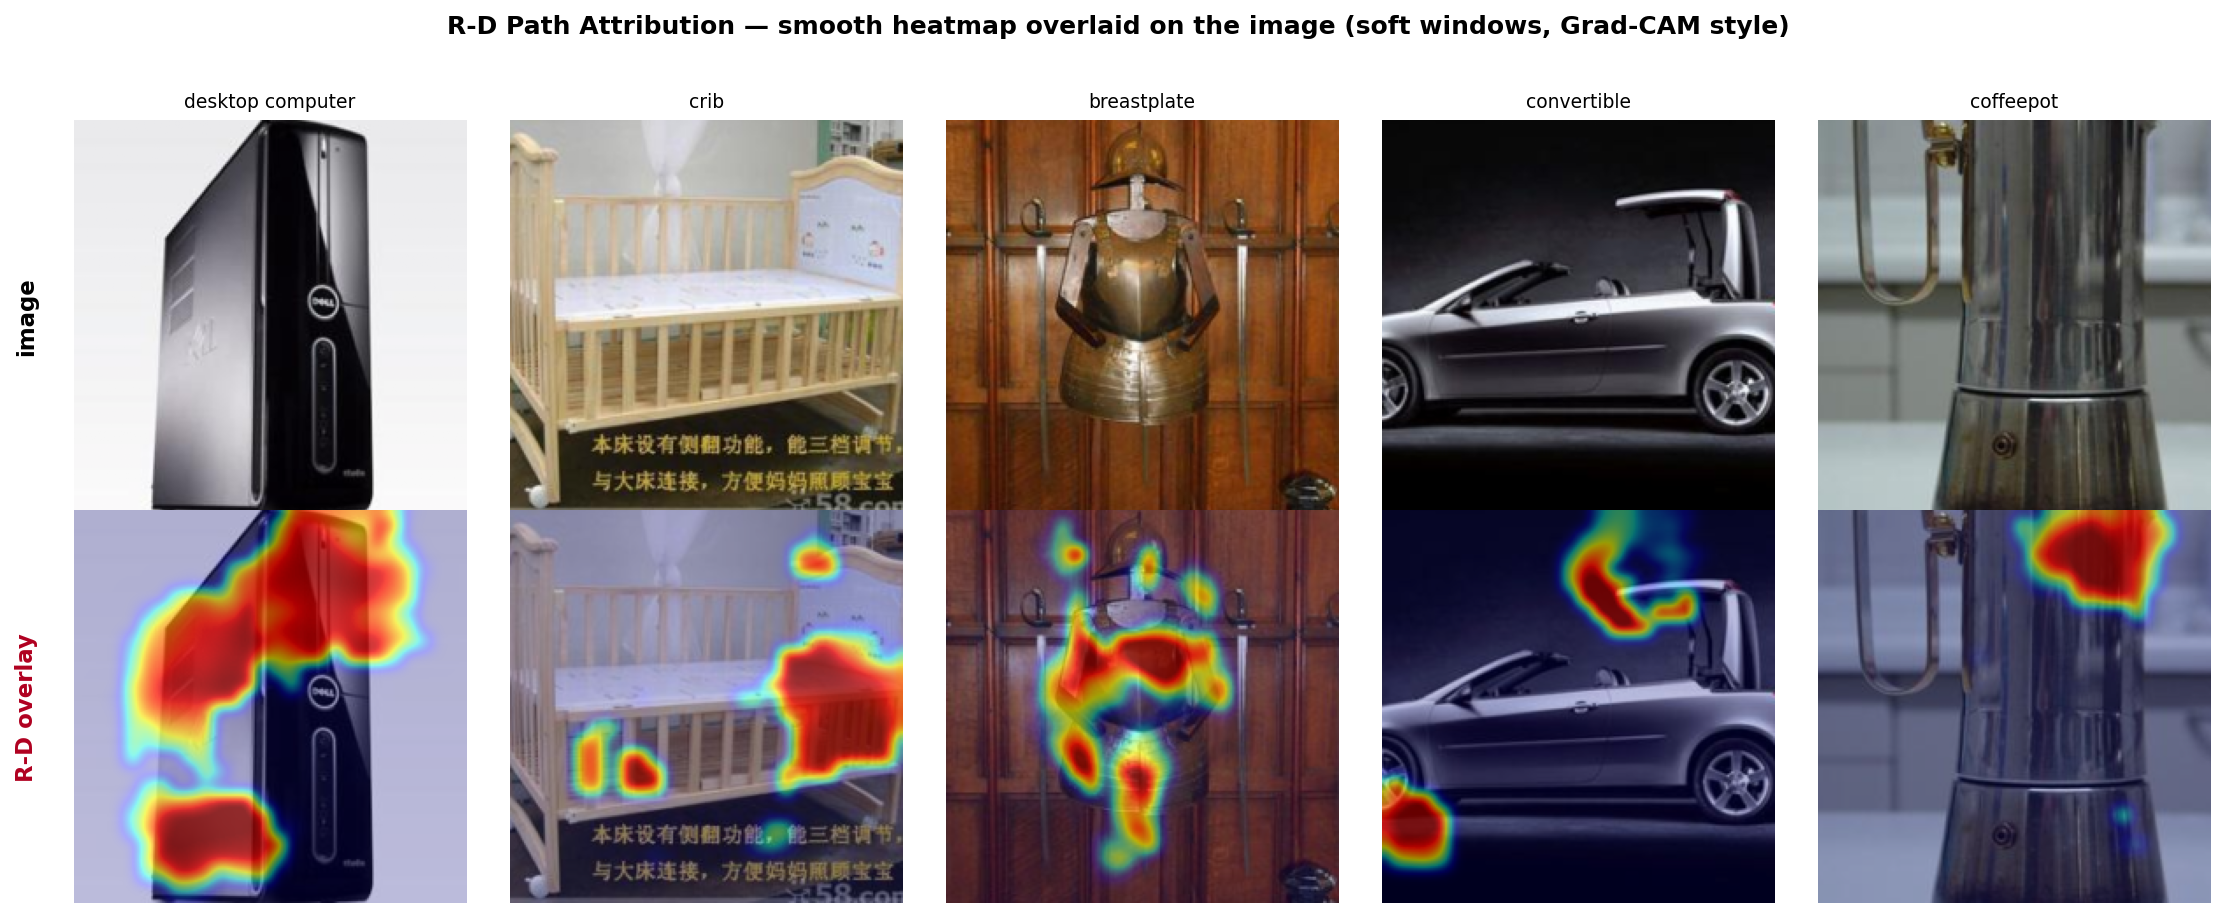
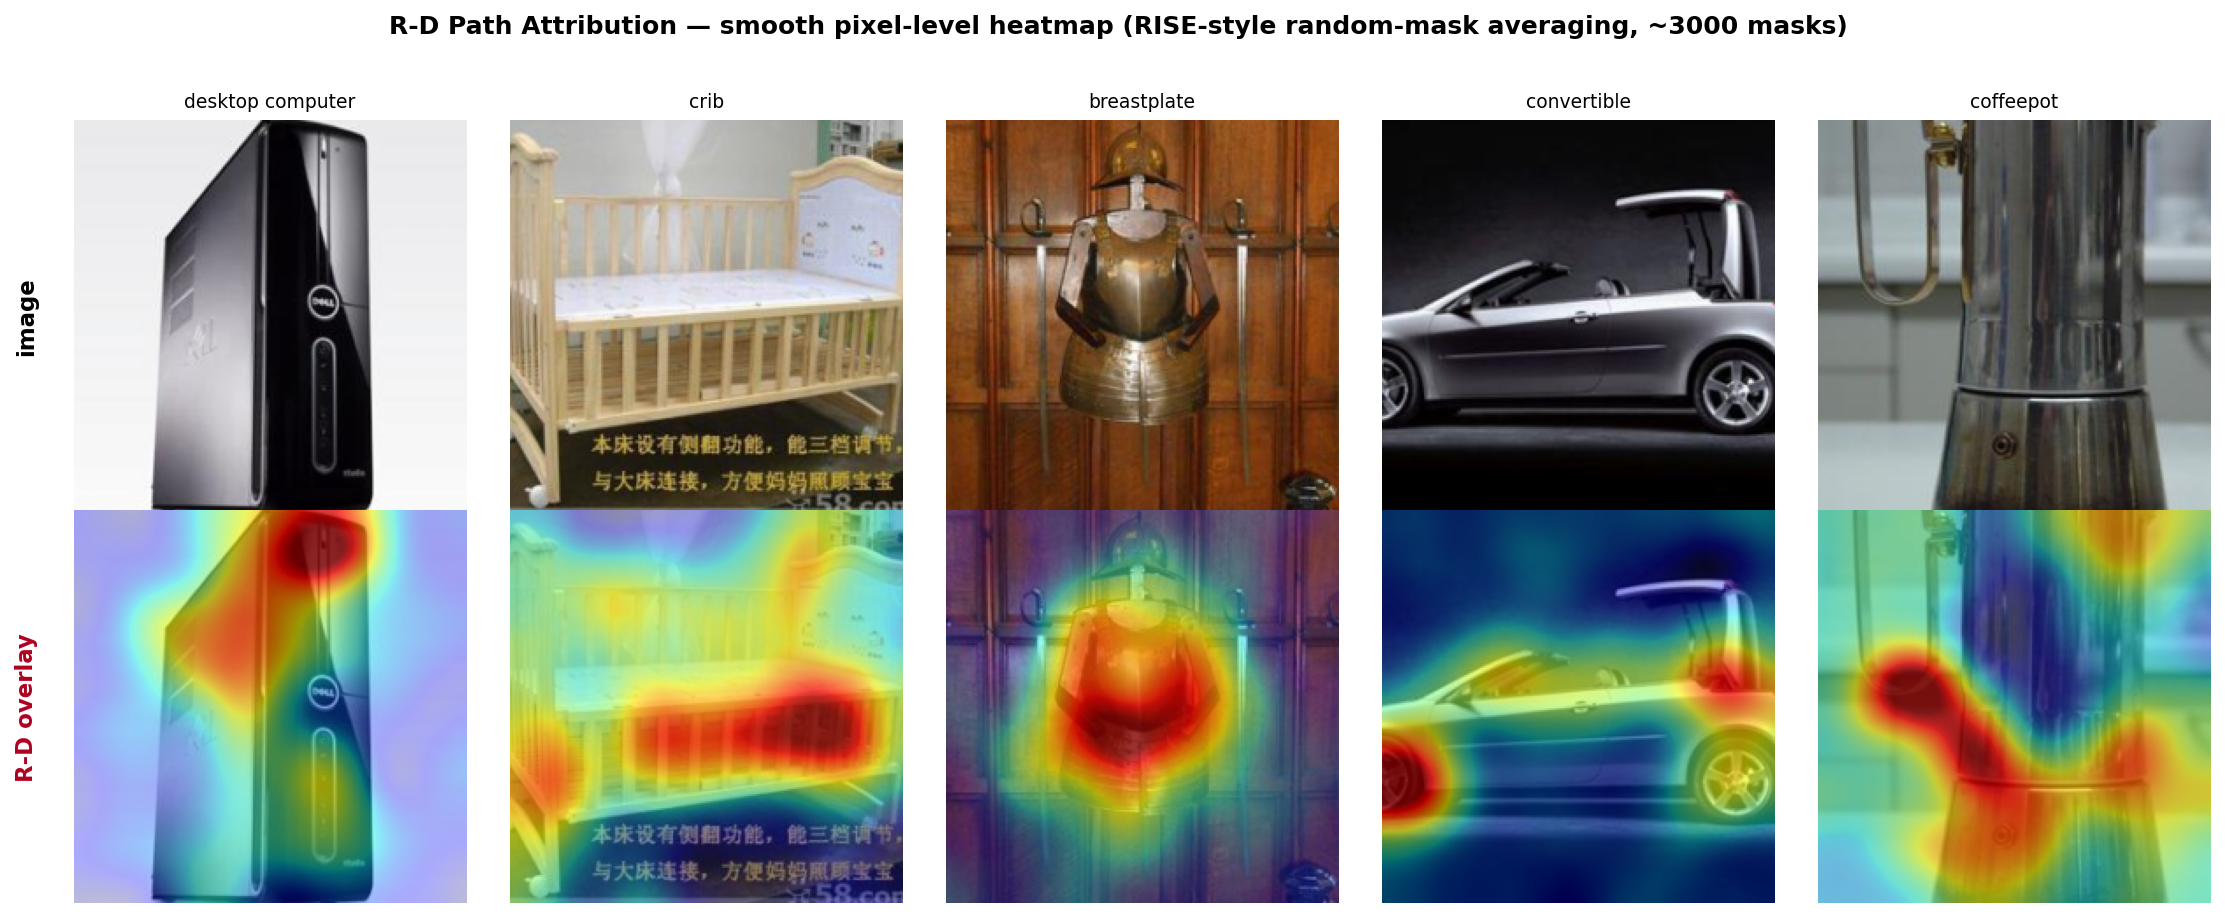
R-D: smooth pixel-level map via RISE-style random-mask averaging
rise_smooth_map() replaces the patch-grid map for visualization — thousands of random smooth
masks, noise where masked, weight each by its logit drop, average -> smooth heatmap like other
methods. rd_overlay.py renders it overlaid on the image (no patchiness).

diff --git a/infocube-main/rd_overlay.py b/infocube-main/rd_overlay.py
@@ -25,19 +25,22 @@ def overlay(img, amap, cmap='jet'):
     heat = cm.get_cmap(cmap)(a)[..., :3]; al = (0.25 + 0.55*a)[..., None]
     return np.clip(img*(1-al) + heat*al, 0, 1)
 
-# smoother config: soft Gaussian windows, dense stride, more smoothing
-cfg = RD.RDConfig(window=40, stride=8, smooth=3.0, soft_window=True, operator='noise', n_mc=3)
+# RISE-style random-mask smooth map (pixel-level, not patchy)
+wrap = RD.ModelWrapper(model, DEVICE); op = RD.NoiseOperator()
 fig, ax = plt.subplots(2, K, figsize=(3.0*K, 6.2), facecolor='white')
 if K == 1: ax = ax[:, None]
+from scipy.ndimage import gaussian_filter
 from tqdm import tqdm
 for c, img01 in enumerate(tqdm(imgs, desc='overlay')):
-    res = RD.run_rd_attribution(model, img01, cfg, DEVICE, full=False)
+    x = img01.unsqueeze(0).to(DEVICE); cls = int(wrap.logits(x)[0].argmax())
+    amap = RD.rise_smooth_map(wrap, x, op, 0.5, cls, n_masks=3000, s=8, p=0.5, batch=64, seed=0)
+    amap = gaussian_filter(np.clip(amap, 0, None), 4)
     im = img01.permute(1,2,0).cpu().numpy()
-    ax[0,c].imshow(im); ax[0,c].set_title(cats[res['target_class']].split(',')[0], fontsize=9); ax[0,c].axis('off')
-    ax[1,c].imshow(overlay(im, res['suff_map'])); ax[1,c].axis('off')
+    ax[0,c].imshow(im); ax[0,c].set_title(cats[cls].split(',')[0], fontsize=9); ax[0,c].axis('off')
+    ax[1,c].imshow(overlay(im, amap)); ax[1,c].axis('off')
 ax[0,0].text(-0.12,0.5,'image', transform=ax[0,0].transAxes, rotation=90, va='center', ha='center', fontsize=11, fontweight='bold')
 ax[1,0].text(-0.12,0.5,'R-D overlay', transform=ax[1,0].transAxes, rotation=90, va='center', ha='center', fontsize=11, fontweight='bold', color='#b00020')
-plt.suptitle('R-D Path Attribution — smooth heatmap overlaid on the image (soft windows, Grad-CAM style)',
+plt.suptitle('R-D Path Attribution — smooth pixel-level heatmap (RISE-style random-mask averaging, ~3000 masks)',
              fontsize=12, fontweight='bold')
 plt.tight_layout(rect=[0,0,1,0.96]); plt.savefig('cs_viz_outputs/rd_overlay.png', dpi=150, bbox_inches='tight'); plt.close()
 print('saved cs_viz_outputs/rd_overlay.png')

diff --git a/infocube-main/rd_attribution.py b/infocube-main/rd_attribution.py
@@ -122,6 +122,26 @@ class BlurOperator:
 
 def get_operator(name): return NoiseOperator() if name == 'noise' else BlurOperator()
 
+def rise_smooth_map(wrap, img01, operator, level, cls, n_masks=3000, s=8, p=0.5, batch=64, seed=0):
+    """SMOOTH pixel-level importance via RISE-style random masks (no patch grid).
+    Thousands of random smooth masks; noise where mask=1; weight each mask by its logit drop.
+    importance[px] = mean logit-drop over masks that noised that pixel -> smooth heatmap."""
+    dev = img01.device; H, W = img01.shape[-2:]
+    L0 = float(wrap.target_logit(img01, cls).item()); rng = np.random.default_rng(seed)
+    ch, cw = int(np.ceil(H / s)), int(np.ceil(W / s)); uh, uw = (s + 1) * ch, (s + 1) * cw
+    acc = torch.zeros(1, H, W, device=dev); wsum = torch.zeros(1, H, W, device=dev); done = 0
+    while done < n_masks:
+        b = min(batch, n_masks - done)
+        grid = torch.from_numpy((rng.random((b, 1, s, s)) < p).astype('float32')).to(dev)
+        up = F.interpolate(grid, size=(uh, uw), mode='bilinear', align_corners=False)
+        M = torch.empty(b, 1, H, W, device=dev)
+        for i in range(b):
+            oy, ox = int(rng.integers(0, ch)), int(rng.integers(0, cw)); M[i] = up[i, :, oy:oy+H, ox:ox+W]
+        deg = operator.degrade(img01, level, rng)
+        L = wrap.target_logit(img01 * (1 - M) + deg * M, cls)          # (b,)
+        acc += ((L0 - L).view(b, 1, 1, 1) * M).sum(0); wsum += M.sum(0); done += b
+    return (acc / (wsum + EPS))[0].cpu().numpy()
+
 def rate_of(level, level_max, model='log'):      # bits/importance kept; monotone DECREASING in degradation. §3
     """'log': log(lmax/level) (unbounded, log-compressed, hard floor)  ·
     'linear': 1 - level/lmax (bounded [0,1], graded, gentler floor)."""
